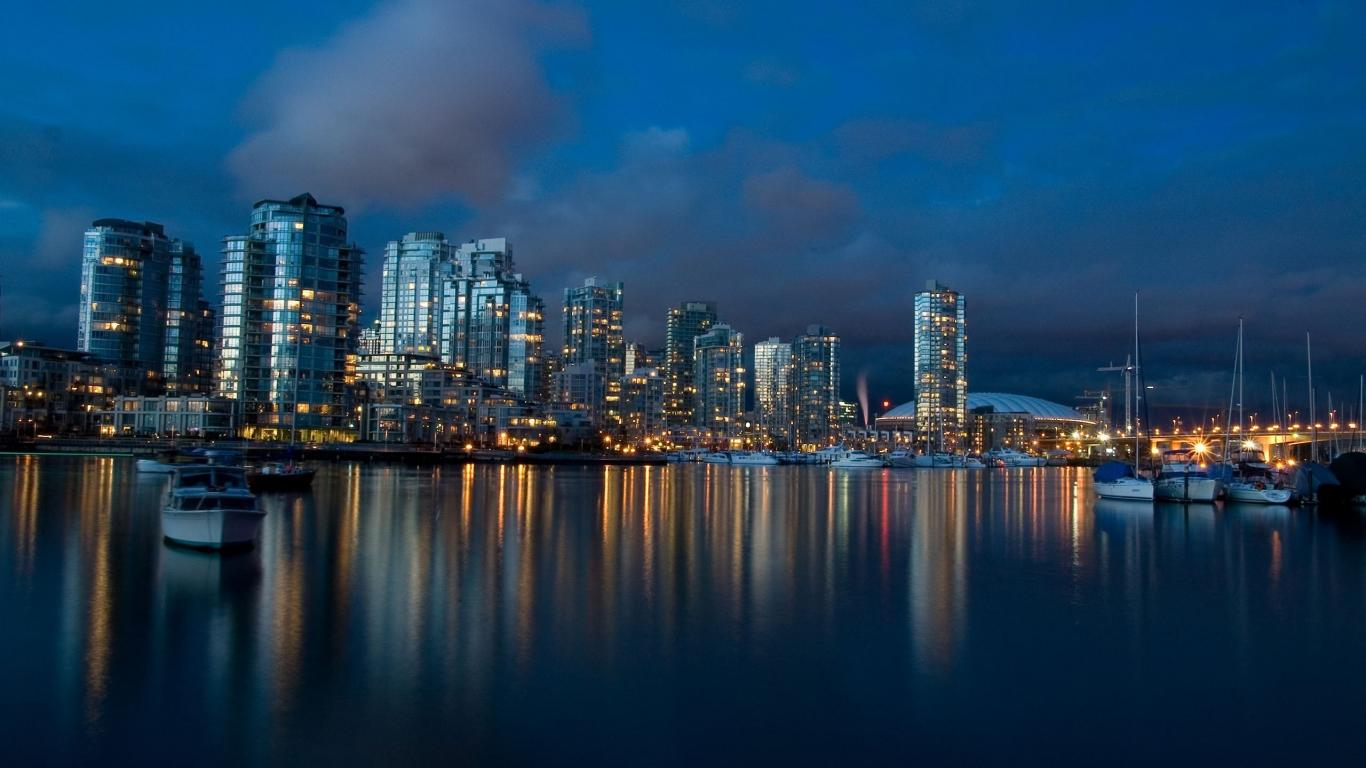
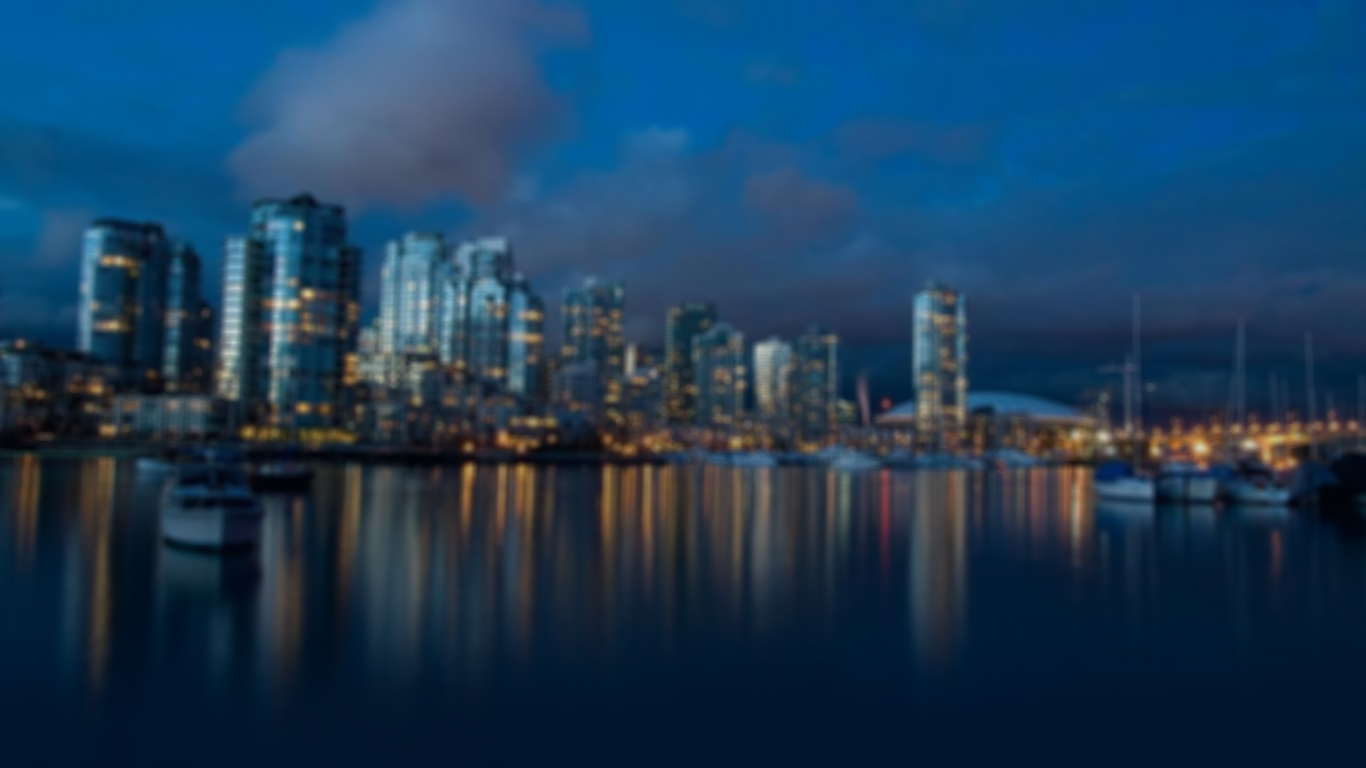
Fixed background

Changed region(s): [[0.0, 0.25, 1.0, 0.9062], [0.0615, 0.2812, 0.0922, 0.4688], [0.0, 0.4375, 0.0307, 0.5312]]

diff --git a/feedback.css b/feedback.css
@@ -1,7 +1,8 @@
 body{
-    background: url("hk.jpg");
+    background: url("hk.jpg") no-repeat;
     background-position: top center;
     color: #fff;
+    background-color: #00142d;
 }
 
 #global-message{
